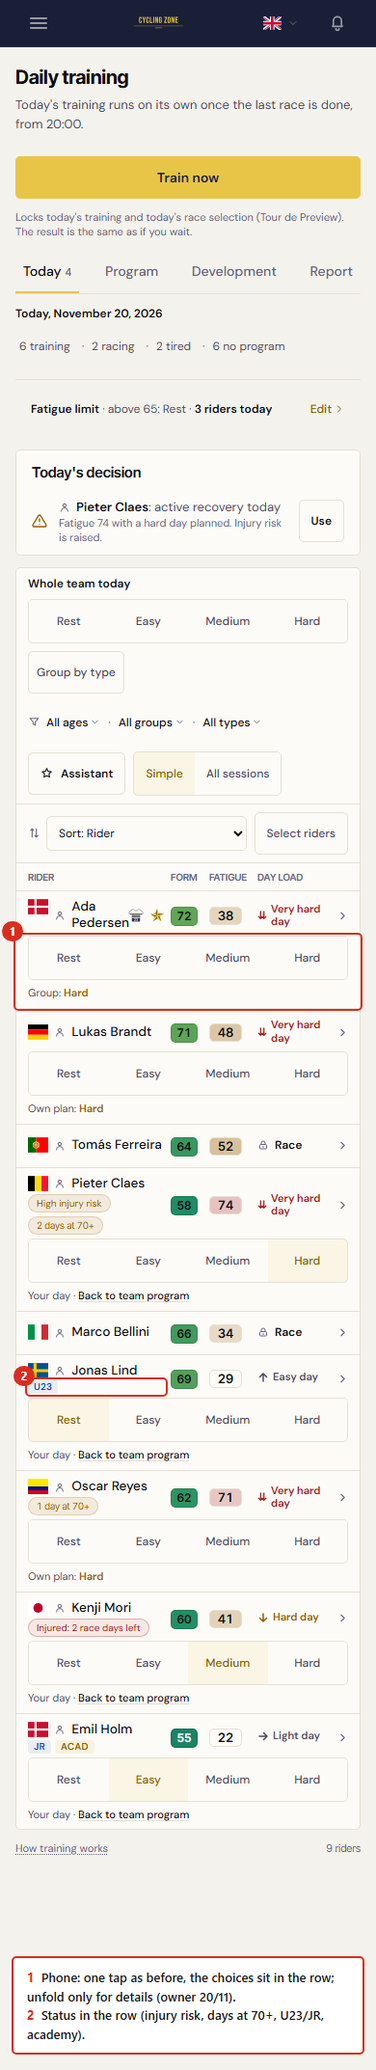
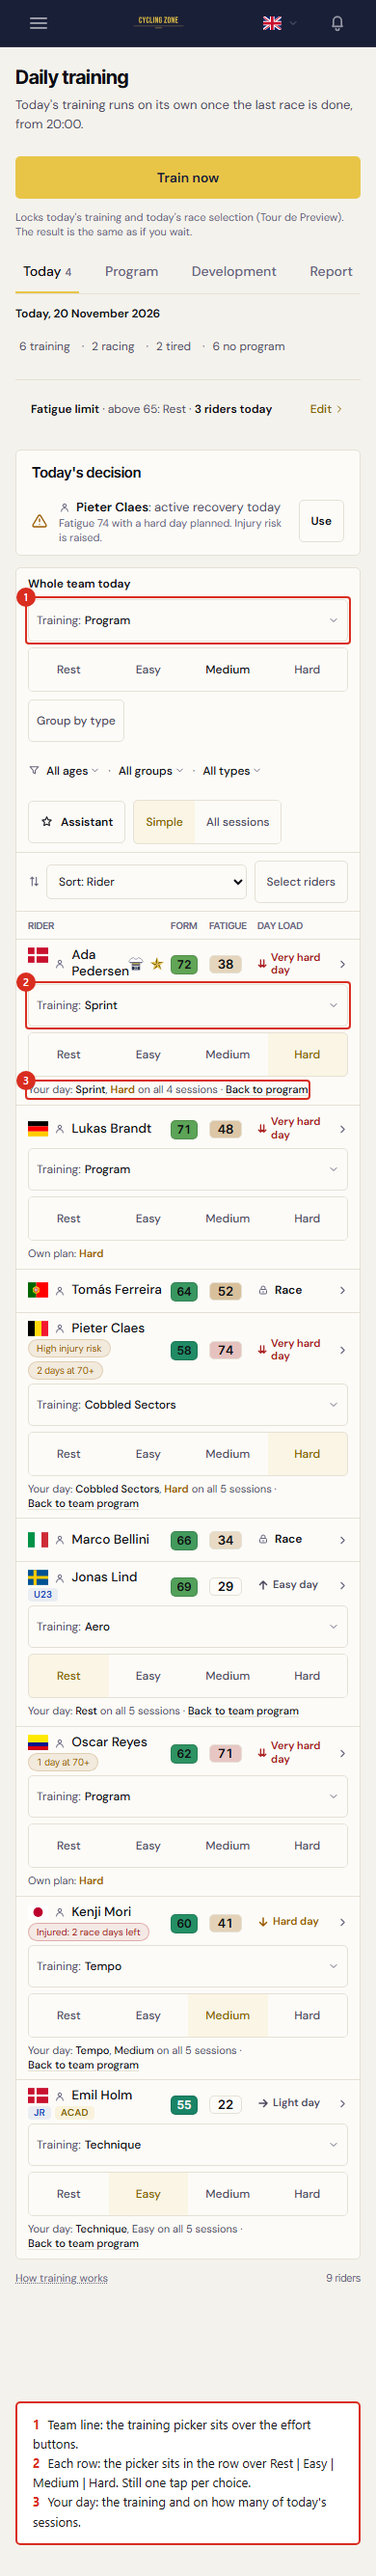
docs(7947): nye annoterede billeder af I dag R5 med traeningsvaelgeren (1440 + 390)
Preview-mocken (bygget, ?trainingR5=1). Roede rammer om det nye: holdlinjens
og raekkens "Training"-vaelger, "Your day"-linjen og Fatigue now-overskriften
(kolonnebredder justeret, saa pilen ikke stoeder op til Day load).

Refs #7947

diff --git a/frontend/src/components/training/r5/TodayR5.tsx b/frontend/src/components/training/r5/TodayR5.tsx
@@ -714,13 +714,13 @@ export default function TodayR5({ r5 }: { r5: TodayR5Props }) {
               aria-label={t("r5.selectAll")} className="h-4 w-4 rounded-[3px] accent-cz-accent" />
           </th>
           <th className="w-[36px]"><span className="sr-only">{t("r5.sessions.label")}</span></th>
-          <SortTh k="rider" label={t("colRider")} cls="w-[192px]" sort={sort} onSort={onSort} />
+          <SortTh k="rider" label={t("colRider")} cls="w-[184px]" sort={sort} onSort={onSort} />
           <SortTh k="type" label={t("colType")} cls="w-[128px]" sort={sort} onSort={onSort} />
           <SortTh k="age" label={t("colAge")} cls="w-[56px]" sort={sort} onSort={onSort} />
           <SortTh k="program" label={t("r5.col.program")} cls="w-[150px]" sort={sort} onSort={onSort} />
           <SortTh k="form" label={t("form")} cls="w-[64px]" sort={sort} onSort={onSort} />
           {/* Pilen stoedte op til Day load (ejer 20/11): kolonnen er bred nok, og en lang overskrift brydes inde i sin egen celle. */}
-          <SortTh k="fatigue" label={t("r5.col.fatigueNow")} cls="w-[116px]" sort={sort} onSort={onSort} />
+          <SortTh k="fatigue" label={t("r5.col.fatigueNow")} cls="w-[124px]" sort={sort} onSort={onSort} />
           <SortTh k="load" label={t("r5.col.dayLoad")} cls="w-[124px]" sort={sort} onSort={onSort} />
           <SortTh k={null} label={t("r5.col.today")} cls="" sort={sort} onSort={onSort} />
         </tr>
